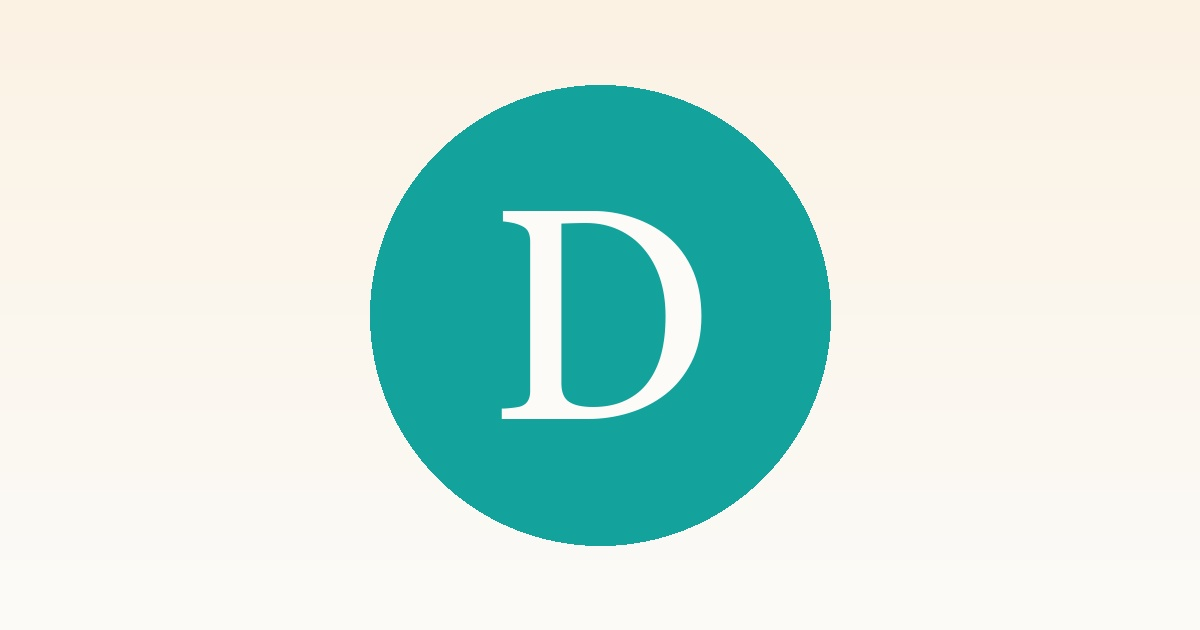
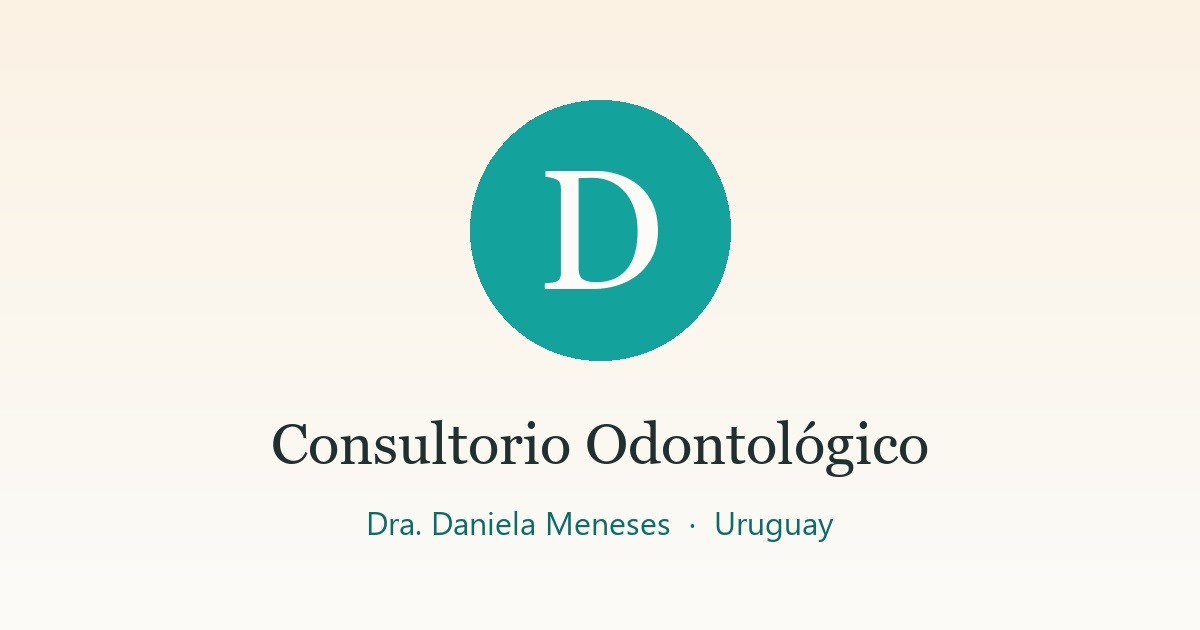
Agregar og:image:width/height y traer de vuelta texto en la imagen OG

Changed region(s): [[0.2158, 0.1206, 0.7708, 0.8746]]

diff --git a/index.html b/index.html
@@ -11,6 +11,9 @@
 <meta property="og:title" content="Consultorio Odontológico — Dra. Daniela Meneses">
 <meta property="og:description" content="Atención odontológica cercana en Uruguay. Blanqueamiento, ortodoncia, limpieza dental y más. Reservá tu turno por WhatsApp.">
 <meta property="og:image" content="https://consultorio-odontologico-uy.vercel.app/og-image.jpg">
+<meta property="og:image:width" content="1200">
+<meta property="og:image:height" content="630">
+<meta property="og:image:type" content="image/jpeg">
 <meta property="og:url" content="https://consultorio-odontologico-uy.vercel.app">
 <link rel="canonical" href="https://consultorio-odontologico-uy.vercel.app">
 <meta name="twitter:card" content="summary_large_image">